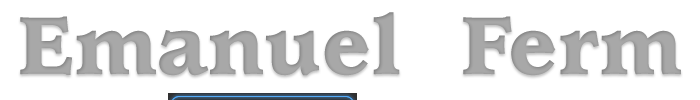
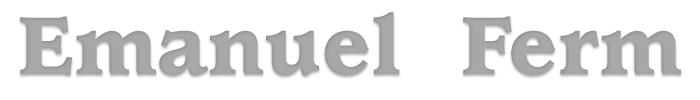
eferm.com now using css sprites

Changed region(s): [[0.24, 0.93, 0.51, 1.0]]

diff --git a/eferm.css b/eferm.css
@@ -22,10 +22,13 @@ html, body {
 	overflow: hidden;
 }
 
+#header, #content, #footer {
+	width: 700px;
+}
+
 #header {
 	background: url(img/header.png) 0 0;
 	height: 100px;
-	width: 700px;
 }
 
 #container {
@@ -36,11 +39,9 @@ html, body {
 #footer {
 	margin-top: 20px;
 	height: 50px;
-	width: 700px;
 }
 
 #content {
-	width: 700px;
 	margin-left: 160px;
 	margin-right: 160px;
 }
@@ -80,23 +81,17 @@ html, body {
 	display: none;
 }
 
-.left, .right, .bottom {
+.left, .right, .top, .bottom {
 	display: block;
 	height: 100%;
 	width: 100%;
+	background: url(img/highlight.png) no-repeat;
 }
 
-.left {
-	background: url(img/left.png) 0 0;
-}
-
-.right {
-	background: url(img/right.png) 0 0;
-}
-
-.bottom {
-	background: url(img/bottom.png) 0 0;
-}
+.left {background-position: 168px -7px;}
+.right {background-position: -182px -7px;}
+.top {background-position: 168px 93px;}
+.bottom {background-position: -7px -115px;}
 
 .hide {
 	position: absolute;
@@ -108,6 +103,9 @@ a {
 	height: 100%;
 	width: 100%;
 }
+
+a:active, a:focus {outline: 0;}
+img {border: 0px;}
 
 #left p, #right p, #right a, #right a:hover, #right a:focus, #right a:active, #right a:visited,
 #left a, #left a:hover, #left a:focus, #left a:active, #left a:visited {
@@ -126,46 +124,28 @@ a {
 	display: inline;
 }
 
-a:active, a:focus {
-	outline: 0;
-}
+.cell a {background: url(img/buttons.png) 0px;}
 
-img {
-	border: 0px;
-}
+a.blog {background-position: left 0px;}
+a.blog:hover {background-position: right 0px;}
 
-a.facebook {
-	background: url(img/facebook.png) 0 0;
-}
+a.twitter {background-position: left -108px;}
+a.twitter:hover {background-position: right -108px;}
 
-a.ctk {
-	background: url(img/ctk.png) 0 0;
-}
+a.ctk {background-position: left -216px;}
+a.ctk:hover {background-position: right -216px;}
 
-a.travel {
-	background: url(img/travel.png) 0 0;
-}
+a.facebook {background-position: left -324px;}
+a.facebook:hover {background-position: right -324px;}
 
-a.reddit {
-	background: url(img/reddit.png) 0 0;
-}
+a.cv {background-position: left -432px;}
+a.cv:hover {background-position: right -432px;}
 
-a.twitter {
-	background: url(img/twitter.png) 0 0;
-}
+a.lastfm {background-position: left -540px;}
+a.lastfm:hover {background-position: right -540px;}
 
-a.lastfm {
-	background: url(img/lastfm.png) 0 0;
-}
+a.reddit {background-position: left -648px;}
+a.reddit:hover {background-position: right -648px;}
 
-a.blog {
-	background: url(img/blog.png) 0 0;
-}
-
-a.cv {
-	background: url(img/cv.png) 0 0;
-}
-
-a:hover {
-	background-position: -175px 0px;
-}
+a.travel {background-position: left -756px;}
+a.travel:hover {background-position: right -756px;}

diff --git a/index.php b/index.php
@@ -11,7 +11,7 @@
 	</head>
 	<body>
 		<div id="distance"></div>
-		<div id="header">
+		<div id="header"><span class="top"></span>
 			<script type="text/javascript">
 				document.write("<n uers=\"znvygb:rznahry@rsrez.pbz\">".replace(/[a-zA-Z]/g, 
 				function(c){return String.fromCharCode((c<="Z"?90:122)>=(c=c.charCodeAt(0)+13)?c:c-26);}));
